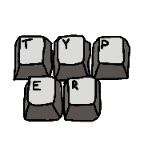
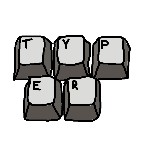
typer 0.7.0

Changed region(s): [[0.0833, 0.2222, 0.9167, 0.8611]]

diff --git a/typer/index.html b/typer/index.html
@@ -112,7 +112,7 @@ body {
 
 		<script src="index.js"></script>
 		<script>
-const GODOT_CONFIG = {"args":[],"canvasResizePolicy":2,"emscriptenPoolSize":8,"ensureCrossOriginIsolationHeaders":true,"executable":"index","experimentalVK":false,"fileSizes":{"index.pck":2790992,"index.wasm":35754592},"focusCanvas":true,"gdextensionLibs":[],"godotPoolSize":4,"serviceWorker":"index.service.worker.js"};
+const GODOT_CONFIG = {"args":[],"canvasResizePolicy":2,"emscriptenPoolSize":8,"ensureCrossOriginIsolationHeaders":true,"executable":"index","experimentalVK":false,"fileSizes":{"index.pck":2793088,"index.wasm":37896978},"focusCanvas":true,"gdextensionLibs":[],"godotPoolSize":4,"serviceWorker":"index.service.worker.js"};
 const GODOT_THREADS_ENABLED = false;
 const engine = new Engine(GODOT_CONFIG);
 

diff --git a/typer/index.service.worker.js b/typer/index.service.worker.js
@@ -4,7 +4,7 @@
 // Incrementing CACHE_VERSION will kick off the install event and force
 // previously cached resources to be updated from the network.
 /** @type {string} */
-const CACHE_VERSION = '1780971494|803234423';
+const CACHE_VERSION = '1782769243|3915152606';
 /** @type {string} */
 const CACHE_PREFIX = 'typer-sw-cache-';
 const CACHE_NAME = CACHE_PREFIX + CACHE_VERSION;